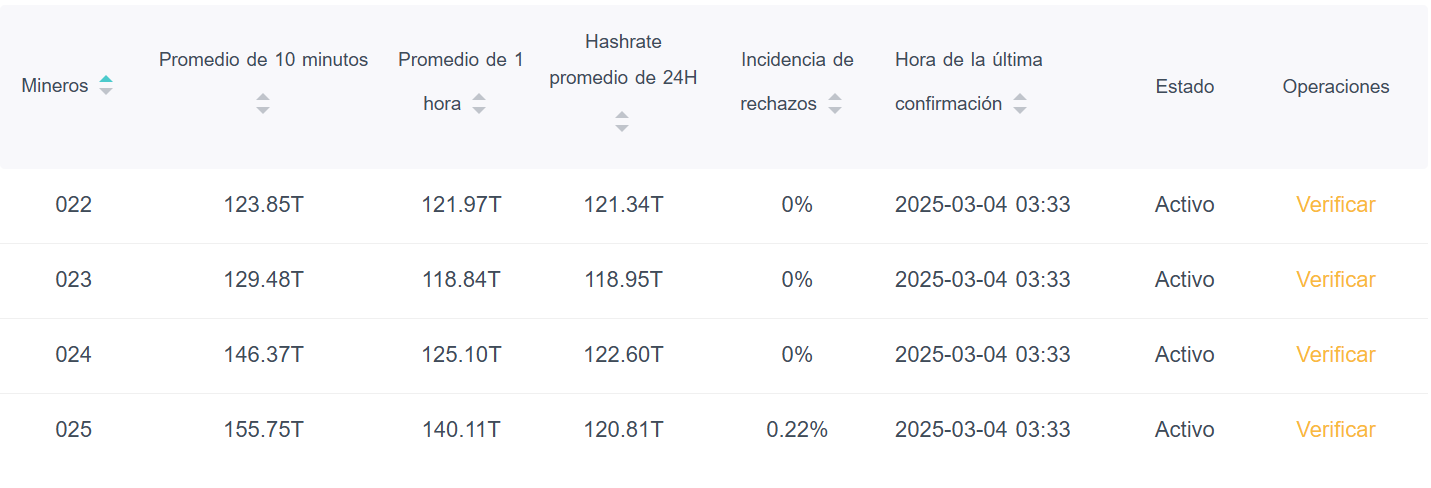
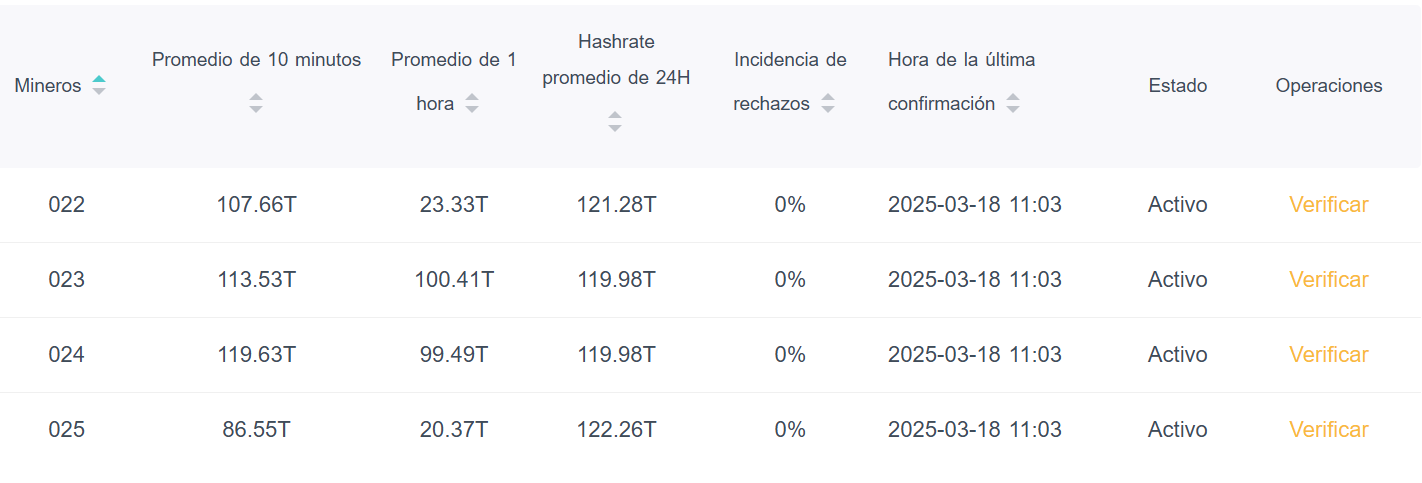
actualización página

diff --git a/index.html b/index.html
@@ -3,7 +3,7 @@
   <head>
     <meta charset="UTF-8" />
     <meta name="viewport" content="width=device-width, initial-scale=1.0" />
-    <title>Reporte 05 de Marzo</title>
+    <title>Reporte 18 de Marzo</title>
     <link rel="stylesheet" href="assets/css/style.css" />
     <link
       href="https://cdn.jsdelivr.net/npm/bootstrap@5.3.0/dist/css/bootstrap.min.css"
@@ -42,6 +42,9 @@
               </li>
               <li class="nav-item">
                 <a class="nav-link" href="#chia">CHIA</a>
+              </li>
+              <li class="nav-item">
+                <a class="nav-link" href="#filtros">ESTADO FILTROS</a>
               </li>
               <li class="nav-item">
                 <a class="nav-link" href="#itinerario">MI ITINERARIO</a>
@@ -83,17 +86,20 @@
         <img src="assets/img/plots.png" alt="Chia Plotting" />
       </div>
 
+      <div class="bloque" id="filtros">
+        <h1>ESTADO FILTROS</h1>
+        <img src="assets/img/estado_filtros.jpeg" alt="estado-filtros" />
+      </div>
+
       <div class="bloque" id="itinerario">
         <h1>MI ITINERARIO DE HOY</h1>
         <p>
-          Anoche me dediqué a descansar por un fuerte dolor en la espalda baja (nervio ciático)
-          por lo que tampoco he avanzado con el aseo, apenas alivie el dolor retomo el orden del host
-          en general.
+          Logré hacer mantenimiento a 8 GPU 5700. Hice mantenimiento general a
+          los ASIC Ya que habían varios que no estaban minando.
         </p>
         <p>
-        Los datos mostrados son de los ASIC ahora durante el día, para mostrar cuántos ASIC dejan de 
-        minar por el calor. Apenas alivie el dolor de espalda limpiaré los filtros lo cual debería 
-        mejorar la condición de los ASIC en general.
+          Limpié los filtros (evidencia en foto) lo cual espero que mejore la
+          estabilidad de minado de los ASIC.
         </p>
       </div>
     </main>
